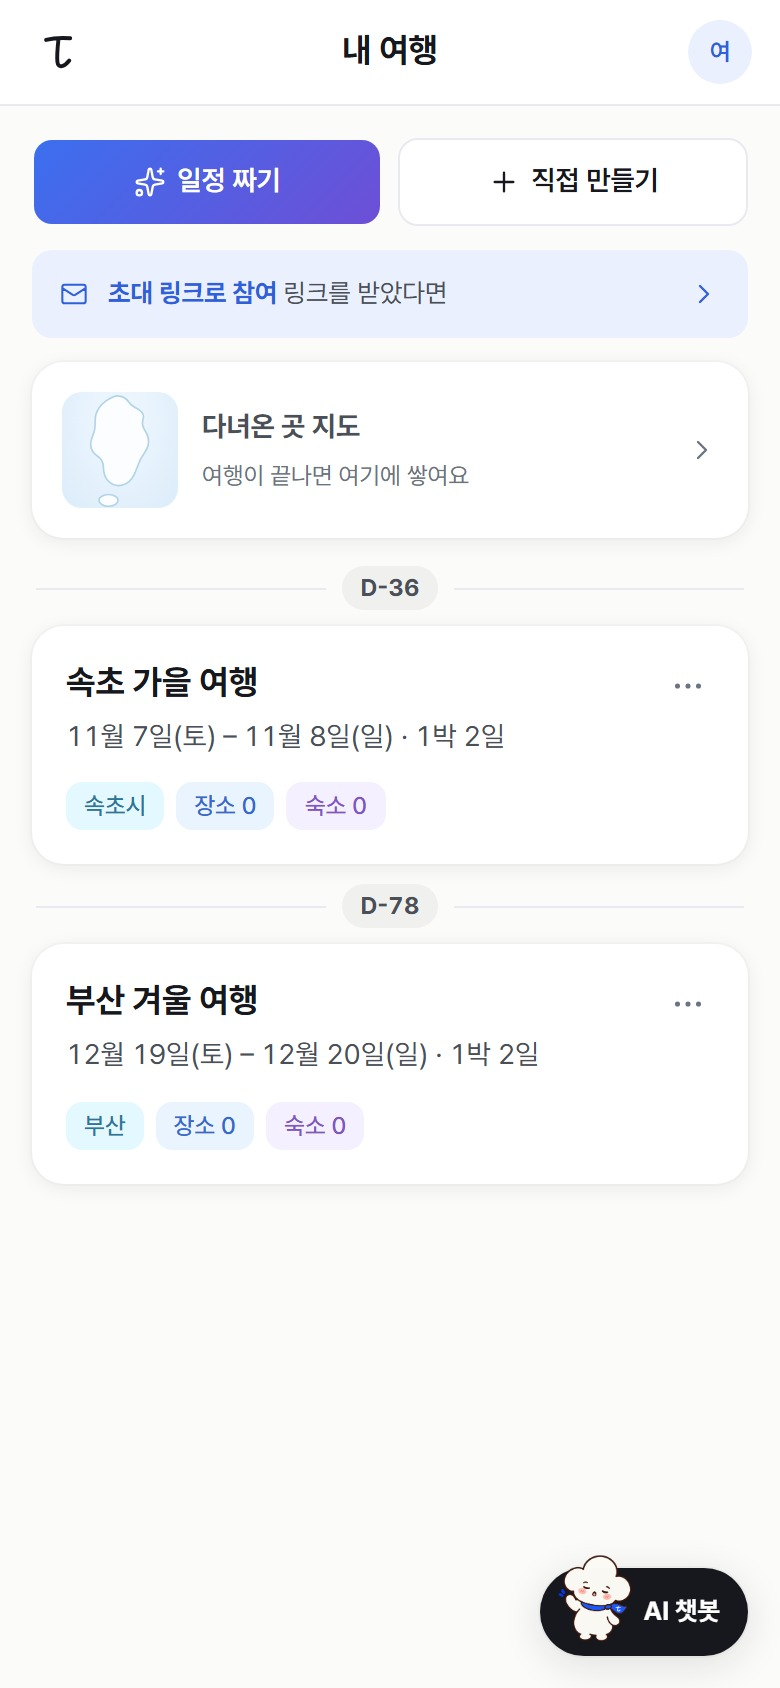
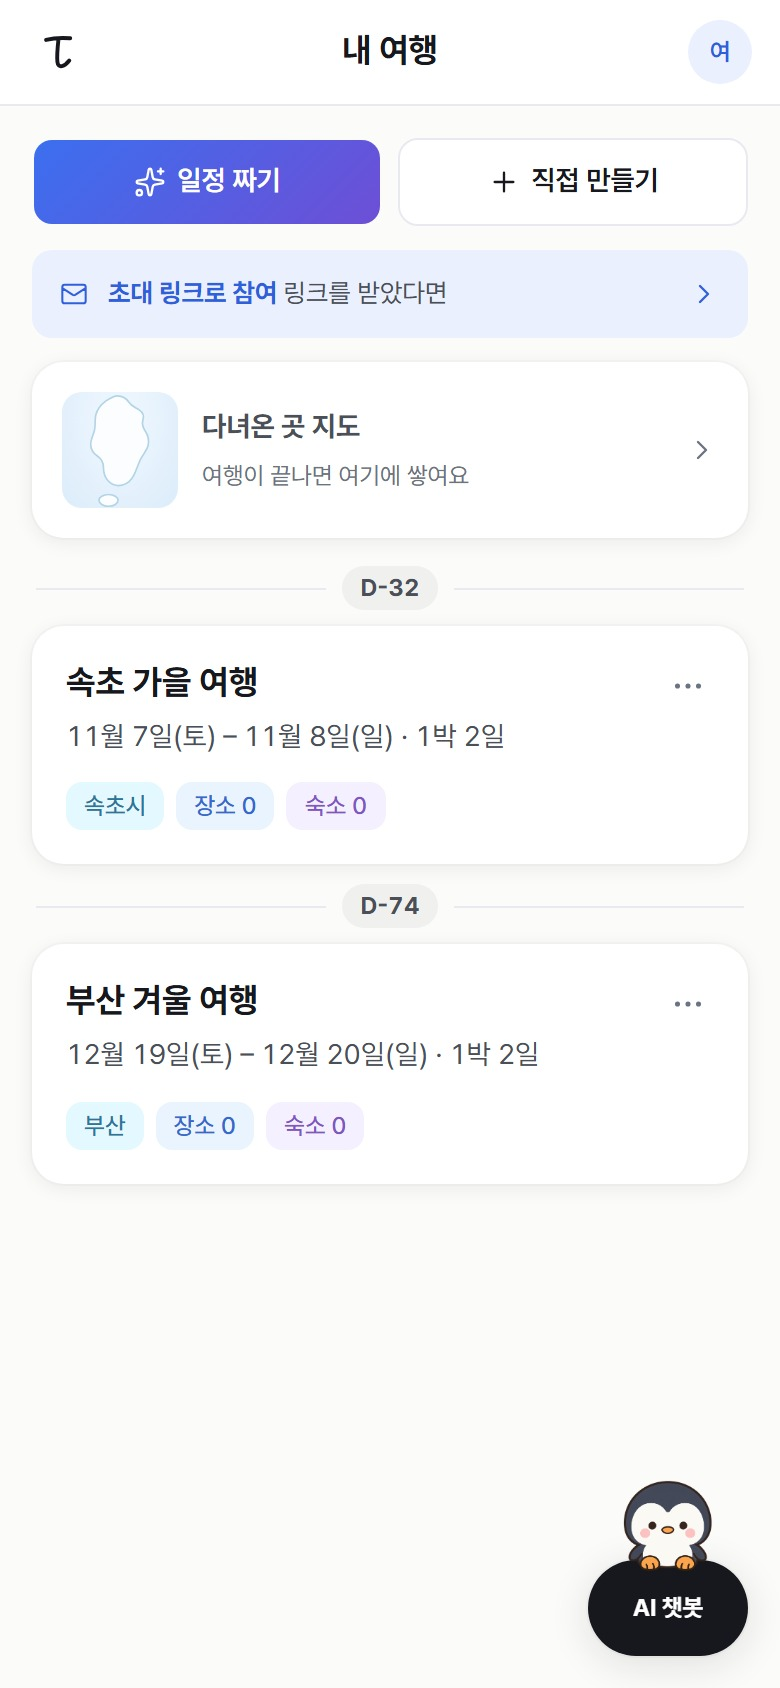
feat(app): 챗봇 캐릭터를 펭귄 펭이로 바꾼다
- 목록·상세 진입 버튼과 전체 대화·시트에 펭이 그림을 쓰고 구름이 그림을 지운다
- 사용법 문구·대체 텍스트를 펭이로 고치고 캡처를 다시 만든다

Changed region(s): [[0.6769, 0.8626, 0.9538, 0.9858], [0.5231, 0.5237, 0.5538, 0.5545]]

diff --git a/app/e2e/penguin-mascot.spec.ts b/app/e2e/penguin-mascot.spec.ts
@@ -7,31 +7,49 @@ async function checkEntry(page: Page) {
   await expect(entry).toHaveAccessibleName('AI 챗봇 열기');
   await expect(entry.locator('svg')).toHaveCount(0);
   const image = entry.locator('img');
-  await expect(image).toHaveAttribute('src', '/brand/companion-cloud-sleepy-v1.png');
+  await expect(image).toHaveAttribute('src', '/brand/companion-penguin-v1.png');
   await expect.poll(() => image.evaluate((img: HTMLImageElement) => img.naturalWidth)).toBeGreaterThan(0);
   const box = (await entry.boundingBox())!;
-  expect(box.height).toBe(44);
-  expect(box.width).toBeLessThan(150);
-  expect((await image.boundingBox())!.width).toBe(56);
+  expect(box.height).toBe(48);
+  expect(box.width).toBe(80);
+  const face = (await image.boundingBox())!;
+  const label = (await entry.locator('span').boundingBox())!;
+  expect(face.width).toBe(64);
+  expect(face.height).toBe(48);
+  expect(label.x).toBeGreaterThan(box.x);
+  expect(label.x + label.width).toBeLessThan(box.x + box.width);
+  expect(face.y).toBeLessThan(box.y);
+  expect(face.y).toBeGreaterThanOrEqual(0);
+  expect(face.y + face.height).toBeGreaterThan(box.y);
+  expect(face.y + face.height).toBeLessThan(label.y);
+  expect(await entry.evaluate(el => getComputedStyle(el).backgroundColor)).toBe('rgb(22, 24, 29)');
+  expect(await entry.evaluate(el => getComputedStyle(el).color)).toBe('rgb(255, 255, 255)');
+  if (await page.evaluate(() => matchMedia('(hover: hover)').matches)) {
+    await entry.hover();
+    await expect(entry).toHaveCSS('background-color', 'rgb(43, 47, 56)');
+    await page.mouse.move(0, 0);
+  }
   await expectNoHorizontalScroll(page);
 }
 
-test('구름이 전신과 작은 AI 챗봇 버튼을 목록·상세에서 사용한다', async ({ page }, testInfo) => {
+test('기존 색 버튼 위에 펭이가 올라앉고 대화에는 전신을 사용한다', async ({ page }, testInfo) => {
   await resetApp(page);
   await checkEntry(page);
-  await page.screenshot({ path: `../output/playwright/cloud-${testInfo.project.name}-list.png` });
+  await page.screenshot({ path: `../output/playwright/penguin-${testInfo.project.name}-list.png` });
   await page.getByTestId('open-chat').click();
-  // 2026-09-28부터 제목과 [새 대화]는 상단 바가 맡고, 구름이는 대화를 시작하기 전
+  // 2026-09-28부터 제목과 [새 대화]는 상단 바가 맡고, 펭이는 대화를 시작하기 전
   // 빈 화면에만 선다. 대화가 시작되면 말풍선만 남는다.
   const welcome = page.locator('app-chat-thread img').first();
+  await expect(welcome).toHaveAttribute('src', '/brand/companion-penguin-v1.png');
   await expect.poll(() => welcome.evaluate((img: HTMLImageElement) => img.naturalWidth)).toBeGreaterThan(0);
   expect(await welcome.evaluate(img => getComputedStyle(img).objectFit)).toBe('contain');
+  await page.screenshot({ path: `../output/playwright/penguin-${testInfo.project.name}-welcome.png` });
   await page.getByTestId('chat-input').fill('3일 쉬는데 어디 가지');
   await page.getByTestId('chat-send').click();
   await expect(page.getByTestId('chat-assistant-message').first()).toBeVisible();
   await expect(page.locator('app-chat-thread img')).toHaveCount(0);
   await expectNoHorizontalScroll(page);
-  await page.screenshot({ path: `../output/playwright/cloud-${testInfo.project.name}-chat.png` });
+  await page.screenshot({ path: `../output/playwright/penguin-${testInfo.project.name}-chat.png` });
   await page.getByTestId('chat-input').fill('아직 보내지 않은 메시지');
   await page.getByTestId('chat-new').click();
   await expect(page.getByTestId('chat-assistant-message')).toHaveCount(0);
@@ -39,18 +57,22 @@ test('구름이 전신과 작은 AI 챗봇 버튼을 목록·상세에서 사용
   await page.reload();
   await expect(page.getByTestId('chat-user-message')).toHaveCount(0);
 
-  const tripId = await createTrip(page, { title: '구름이와 여행', regions: ['강릉시'] });
+  const tripId = await createTrip(page, { title: '펭이와 여행', regions: ['강릉시'] });
   await page.goto(`/trips/${tripId}`);
   await checkEntry(page);
   const entryBox = (await page.getByTestId('open-chat').boundingBox())!;
   const addBox = (await page.getByTestId('add-open').boundingBox())!;
   expect(entryBox.y + entryBox.height).toBeLessThan(addBox.y);
-  await page.screenshot({ path: `../output/playwright/cloud-${testInfo.project.name}-detail.png` });
+  await page.screenshot({ path: `../output/playwright/penguin-${testInfo.project.name}-detail.png` });
   await page.getByTestId('open-chat').click();
   await expect(page.getByTestId('chat-sheet')).toBeVisible();
   await expect(page.getByTestId('chat-sheet').locator('header img')).toHaveAttribute('width', '48');
+  await expect(page.getByTestId('chat-sheet').locator('header img')).toHaveAttribute('src', '/brand/companion-penguin-v1.png');
+  await expect(page.getByTestId('chat-sheet').locator('h2')).toHaveText('AI 챗봇');
+  await expect(page.getByTestId('chat-sheet')).not.toContainText('구름이');
+  await expect(page.getByTestId('chat-sheet').locator('header')).not.toContainText('밤이');
   await expect(page.getByTestId('chat-sheet').locator('app-chat-thread img')).toHaveCount(0);
-  await page.screenshot({ path: `../output/playwright/cloud-${testInfo.project.name}-sheet.png` });
+  await page.screenshot({ path: `../output/playwright/penguin-${testInfo.project.name}-sheet.png` });
   await page.getByTestId('chat-input').fill('여행지 랜덤으로 뽑아줘');
   await page.getByTestId('chat-send').click();
   await expect(page.getByTestId('chat-assistant-message')).toHaveCount(1);
@@ -58,7 +80,7 @@ test('구름이 전신과 작은 AI 챗봇 버튼을 목록·상세에서 사용
   await page.getByTestId('chat-new').click();
   await expect(page.getByTestId('chat-assistant-message')).toHaveCount(0);
   await expect(page.getByTestId('chat-input')).toHaveValue('');
-  await expect(page.getByTestId('chat-sheet')).toContainText('구름이와 여행');
+  await expect(page.getByTestId('chat-sheet')).toContainText('펭이와 여행');
   await page.getByTestId('chat-sheet-close').click();
   await expect(page.getByTestId('chat-sheet')).toHaveCount(0);
 });

diff --git a/app/src/app/features/guide/model/guide.ts b/app/src/app/features/guide/model/guide.ts
@@ -21,10 +21,10 @@ export const guideImage = (slide: GuideSlide) => `/guide/${slide.key}.jpg`;
 export const GUIDE_SLIDES: readonly GuideSlide[] = [
   {
     key: 'trips',
-    alt: '여행 목록 화면. 위에 일정 짜기와 직접 만들기 버튼, 그 아래 초대 링크로 참여 줄, 아래에 여행 카드, 오른쪽 아래에 AI 챗봇 버튼이 있다',
+    alt: '여행 목록 화면. 위에 일정 짜기와 직접 만들기 버튼, 그 아래 초대 링크로 참여 줄, 아래에 여행 카드, 오른쪽 아래에 작은 펭이(펭귄)가 올라앉은 짧고 둥근 AI 챗봇 버튼이 있다',
     title: '여행 목록',
     description: '여행 계획부터 정산까지 이 앱 하나로 해요. 여행 목록에서 시작해요.',
-    spots: ['조건만 고르면 AI가 코스를 짜 줘요', '직접 여행을 만들 수도 있어요', '여행 중인 여행이 맨 위, 누르면 오늘 일정이 열려요', '궁금한 건 AI 챗봇에게 물어봐요', '여행이 끝나면 다녀온 곳이 지도에 쌓여요', '받은 초대 링크를 붙여 넣어 함께해요'],
+    spots: ['조건만 고르면 AI가 코스를 짜 줘요', '직접 여행을 만들 수도 있어요', '여행 중인 여행이 맨 위, 누르면 오늘 일정이 열려요', '궁금한 건 여행 친구 펭이에게 물어봐요', '여행이 끝나면 다녀온 곳이 지도에 쌓여요', '받은 초대 링크를 붙여 넣어 함께해요'],
   },
   {
     key: 'plan-input',
@@ -72,7 +72,7 @@ export const GUIDE_SLIDES: readonly GuideSlide[] = [
     key: 'chat',
     alt: 'AI 챗봇 대화. 추천 장소와 추천 이유가 담긴 확인 카드와 입력 칸',
     title: 'AI 챗봇',
-    description: '궁금한 것을 물어보면 추천을 확인 카드로 보여 줘요. 담을지는 직접 정해요.',
+    description: '여행 친구 펭이에게 물어보세요. 추천을 확인 카드로 보여 주고, 담을지는 직접 정해요.',
     spots: ['추천과 추천 이유를 확인해요', '마음에 들면 적용, 아니면 그대로 두기', '자유롭게 물어봐요'],
   },
   {

diff --git a/app/e2e/guide.capture.ts b/app/e2e/guide.capture.ts
@@ -45,10 +45,20 @@ async function tidy(page: Page): Promise<void> {
  * 밝게 남길 자리를 잰다. 화면 비율(%)로 남겨 어떤 크기로 보여도 맞게 한다.
  * 찾지 못하거나 화면 밖이면 건너뛴다(캡처는 계속한다).
  */
-async function mark(slide: string, spot: number, target: Locator): Promise<void> {
+async function mark(slide: string, spot: number, target: Locator, overflow?: Locator): Promise<void> {
   if (!GUIDE_SLIDES.find((s) => s.key === slide)?.spots[spot]) throw new Error(`${slide}의 ${spot}번 설명이 없다`);
   const box = await target.first().boundingBox({ timeout: 3000 }).catch(() => null);
   if (!box) return;
+  // 버튼 위로 올라온 펭이도 사용법의 밝은 영역에 함께 포함한다.
+  const extra = await overflow?.first().boundingBox();
+  if (extra) {
+    const right = Math.max(box.x + box.width, extra.x + extra.width);
+    const bottom = Math.max(box.y + box.height, extra.y + extra.height);
+    box.x = Math.min(box.x, extra.x);
+    box.y = Math.min(box.y, extra.y);
+    box.width = right - box.x;
+    box.height = bottom - box.y;
+  }
   // 밝힌 자리의 테두리를 요소와 같은 중심으로 둥글리려고 요소의 모서리 둥글기를 읽는다.
   const r = await target.first().evaluate((el) => parseFloat(getComputedStyle(el).borderTopLeftRadius) || 0);
   const x = Math.max(0, box.x);
@@ -106,7 +116,7 @@ test('사용법 캡처', async ({ page, context }) => {
   await mark('trips', 0, page.getByTestId('new-trip-ai'));
   await mark('trips', 1, page.getByTestId('new-trip'));
   await mark('trips', 2, page.getByTestId('trip-list').locator('a, [role=link], article').first());
-  await mark('trips', 3, page.getByTestId('open-chat'));
+  await mark('trips', 3, page.getByTestId('open-chat'), page.getByTestId('open-chat').locator('img'));
   await mark('trips', 4, page.getByTestId('go-stats'));
   await mark('trips', 5, page.getByTestId('open-join-paste'));
   await shot(page, 'trips');

diff --git a/app/src/app/features/trips/feature/trip-detail/trip-detail.html b/app/src/app/features/trips/feature/trip-detail/trip-detail.html
@@ -1,4 +1,4 @@
-@if (store.currentState() === 'loading' && !trip()) {
+@if (store.currentState() === 'loading' && !trip()) {
   <div
     class="page mx-auto my-0 max-w-(--content-max) p-[var(--sp-4)_var(--sp-4)_calc(var(--sp-6)+80px)] [@media(min-width:_720px)]:p-[var(--sp-4)_var(--sp-6)_calc(var(--sp-6)+80px)]"
   >
@@ -948,12 +948,12 @@
     -->
     <button
       type="button"
-      class="fixed right-4 bottom-[calc(65px+12px+env(safe-area-inset-bottom,0px))] z-10004 flex h-11 items-center rounded-pill bg-float pr-3.5 pl-[52px] text-13 font-bold whitespace-nowrap text-white shadow-float hover:bg-float-hover focus-visible:outline-2 focus-visible:outline-offset-4 focus-visible:outline-accent-deep [transition:transform_var(--dur)_var(--ease-out)] active:scale-95"
+      class="fixed right-4 bottom-[calc(65px+12px+env(safe-area-inset-bottom,0px))] z-10004 flex h-12 w-20 items-center justify-center rounded-pill bg-float px-2 text-12 font-bold whitespace-nowrap text-white shadow-float hover:bg-float-hover focus-visible:outline-2 focus-visible:outline-offset-4 focus-visible:outline-accent-deep [transition:transform_var(--dur)_var(--ease-out)] active:scale-95"
       (click)="chatOpen.set(true)"
       aria-label="AI 챗봇 열기"
       data-testid="open-chat"
     >
-      <app-companion-face class="pointer-events-none absolute bottom-px left-0" [mood]="'idle'" [size]="56" [decorative]="true" /><span>AI 챗봇</span>
+      <img class="pointer-events-none absolute bottom-[calc(100%-7px)] left-1/2 h-12 w-16 max-w-none -translate-x-1/2 object-contain object-bottom" src="/brand/companion-penguin-v1.png" alt="" aria-hidden="true" width="64" height="48" decoding="async" /><span>AI 챗봇</span>
     </button>
 
     <app-chat-sheet

diff --git a/app/src/app/features/trips/feature/trip-list/trip-list.html b/app/src/app/features/trips/feature/trip-list/trip-list.html
@@ -1,4 +1,4 @@
-<div
+<div
   class="page flex flex-col gap-3 mx-auto my-0 max-w-(--content-max) p-[var(--sp-4)_var(--sp-4)_calc(var(--sp-6)+80px)] [@media(min-width:_720px)]:p-[var(--sp-4)_var(--sp-6)_calc(var(--sp-6)+80px)]"
 >
   <!--
@@ -294,10 +294,10 @@
   class보다 나중에 적용되어 fixed를 덮기 때문이다.
 -->
 <a
-  class="fixed right-4 bottom-[calc(16px+env(safe-area-inset-bottom,0px))] z-10004 flex h-11 items-center rounded-pill bg-float pr-3.5 pl-[52px] text-13 font-bold whitespace-nowrap text-white shadow-float hover:bg-float-hover focus-visible:outline-2 focus-visible:outline-offset-4 focus-visible:outline-accent-deep [transition:transform_var(--dur)_var(--ease-out)] active:scale-95"
+  class="fixed right-4 bottom-[calc(16px+env(safe-area-inset-bottom,0px))] z-10004 flex h-12 w-20 items-center justify-center rounded-pill bg-float px-2 text-12 font-bold whitespace-nowrap text-white shadow-float hover:bg-float-hover focus-visible:outline-2 focus-visible:outline-offset-4 focus-visible:outline-accent-deep [transition:transform_var(--dur)_var(--ease-out)] active:scale-95"
   routerLink="/trips/chat"
   aria-label="AI 챗봇 열기"
   data-testid="open-chat"
 >
-  <app-companion-face class="pointer-events-none absolute bottom-px left-0" [mood]="'idle'" [size]="56" [decorative]="true" /><span>AI 챗봇</span>
+  <img class="pointer-events-none absolute bottom-[calc(100%-7px)] left-1/2 h-12 w-16 max-w-none -translate-x-1/2 object-contain object-bottom" src="/brand/companion-penguin-v1.png" alt="" aria-hidden="true" width="64" height="48" decoding="async" /><span>AI 챗봇</span>
 </a>

diff --git a/app/src/app/features/travel-chat/ui/companion-face/companion-face.ts b/app/src/app/features/travel-chat/ui/companion-face/companion-face.ts
@@ -1,6 +1,6 @@
 import { ChangeDetectionStrategy, Component, computed, input } from '@angular/core';
 
-/** 구름이 전신 이미지. 대기는 졸림, 응답에는 승인된 작은 미소를 사용한다. */
+/** 여행 친구 펭이(승인된 펭귄 이미지). 모든 상태에 같은 기본 표정을 사용한다. */
 
 /** 어떤 얼굴을 보일지. 대화의 상태와 이어진다. */
 export type CompanionMood =
@@ -12,16 +12,16 @@ export type CompanionMood =
   | 'found';
 
 const FACE: Record<CompanionMood, string> = {
-  idle: '/brand/companion-cloud-sleepy-v1.png',
-  talking: '/brand/companion-cloud-sorry-v1.png',
-  found: '/brand/companion-cloud-sorry-v1.png',
+  idle: '/brand/companion-penguin-v1.png',
+  talking: '/brand/companion-penguin-v1.png',
+  found: '/brand/companion-penguin-v1.png',
 };
 
 /** 얼굴마다 다른 설명. 표정이 뜻을 담고 있으므로 읽어 주는 값도 달라야 한다. */
 const LABEL: Record<CompanionMood, string> = {
-  idle: '쉬고 있는 구름이',
-  talking: '구름이가 답합니다',
-  found: '구름이가 갈 곳을 찾았습니다',
+  idle: '쉬고 있는 펭이',
+  talking: '펭이가 답합니다',
+  found: '펭이가 갈 곳을 찾았습니다',
 };
 
 @Component({

diff --git a/app/src/app/features/trips/feature/trip-detail/trip-detail.ts b/app/src/app/features/trips/feature/trip-detail/trip-detail.ts
@@ -53,7 +53,6 @@ import { TripMapComponent } from '../../../places/ui/trip-map/trip-map';
 import { buildDayMap } from '../../util/map-markers';
 import { type DayMapModel } from '../../../places/model/map';
 import { ChatSheet } from '../../../travel-chat/travel-chat';
-import { CompanionFace } from '../../../travel-chat/companion';
 import type { BadgeTone } from '../../../../shared/util/badge-tone';
 import { ToastService } from '../../../../core/toast-service';
 import { canDeleteTrip, tripPeople } from '../../util/sharing';
@@ -84,7 +83,6 @@ type MapTarget = { readonly id: string; readonly name: string; readonly address:
     TripStays,
     TripMapComponent,
     ChatSheet,
-    CompanionFace,
   ],
   changeDetection: ChangeDetectionStrategy.OnPush,
   templateUrl: './trip-detail.html',

diff --git a/app/src/app/features/trips/feature/trip-list/trip-list.ts b/app/src/app/features/trips/feature/trip-list/trip-list.ts
@@ -19,7 +19,6 @@ import { AuthStore } from '../../../auth/data/auth-store';
 import { UiRowMenu, type RowMenuItem } from '../../../../shared/ui/row-menu/row-menu';
 import { UiBadge } from '../../../../shared/ui/badge/badge';
 import { VisitMapBanner } from '../../../stats/ui/visit-map-banner/visit-map-banner';
-import { CompanionFace } from '../../../travel-chat/companion';
 import { canDeleteTrip, memberSummary } from '../../util/sharing';
 import { UiMemberStack } from '../../../../shared/ui/member-stack/member-stack';
 
@@ -35,7 +34,6 @@ import { UiMemberStack } from '../../../../shared/ui/member-stack/member-stack';
     IconComponent,
     UiRowMenu,
     VisitMapBanner,
-    CompanionFace,
   ],
   changeDetection: ChangeDetectionStrategy.OnPush,
   templateUrl: './trip-list.html',

diff --git a/app/src/app/features/auth/feature/onboarding/onboarding.ts b/app/src/app/features/auth/feature/onboarding/onboarding.ts
@@ -30,7 +30,7 @@ export class OnboardingPage {
       if (!this.auth.user()) void this.router.navigateByUrl('/login', { replaceUrl: true });
       else if (this.auth.nickname() && !this.auth.busy())
         // 초대 링크로 왔다면 닉네임을 정한 뒤 합류 화면으로 돌아간다. 처음 가입해 닉네임을 막
-        // 정한 사람은 구름이가 안내하는 사용법을 먼저 본다(2026-10-01 사용자 요청).
+        // 정한 사람은 펭이가 안내하는 사용법을 먼저 본다(2026-10-01 사용자 요청).
         void this.router.navigateByUrl(
           takeReturn() ?? (this.justSaved && !this.auth.guideSeen() ? '/account/guide?first=1' : '/trips'),
           { replaceUrl: true },

diff --git a/app/src/app/features/auth/data/auth-store.ts b/app/src/app/features/auth/data/auth-store.ts
@@ -37,7 +37,7 @@ export class AuthStore {
   readonly googleEnabled = this.state.googleEnabled;
   readonly kakaoEnabled = this.state.kakaoEnabled;
   readonly nickname = computed(() => nicknameFrom(this.state.user()?.user_metadata));
-  /** 구름이가 안내하는 사용법을 본 적이 있는지. 계정 정보에 남겨 기기를 바꿔도 다시 뜨지 않는다. */
+  /** 펭이가 안내하는 사용법을 본 적이 있는지. 계정 정보에 남겨 기기를 바꿔도 다시 뜨지 않는다. */
   readonly guideSeen = computed(() => this.state.user()?.user_metadata?.['travel_guide_seen'] === true);
   readonly user = this.state.user;
   readonly error = this.state.error;

diff --git a/app/src/app/features/travel-chat/feature/chat-sheet/chat-sheet.html b/app/src/app/features/travel-chat/feature/chat-sheet/chat-sheet.html
@@ -39,7 +39,7 @@
     <header class="flex flex-none items-center justify-between gap-2 px-4 pt-1 pb-2">
       <app-companion-face [mood]="'talking'" [size]="48" [decorative]="true" />
       <div class="min-w-0 flex-1">
-        <h2 class="truncate text-15 font-bold text-ink">AI 챗봇 · 구름이</h2>
+        <h2 class="truncate text-15 font-bold text-ink">AI 챗봇</h2>
         <p class="truncate text-12 text-ink-3">{{ trip().title }}</p>
       </div>
       <button appButton class="btn btn--sm shrink-0 text-12!" type="button" [disabled]="resetting()" (click)="newChat()" data-testid="chat-new">새 대화</button>
